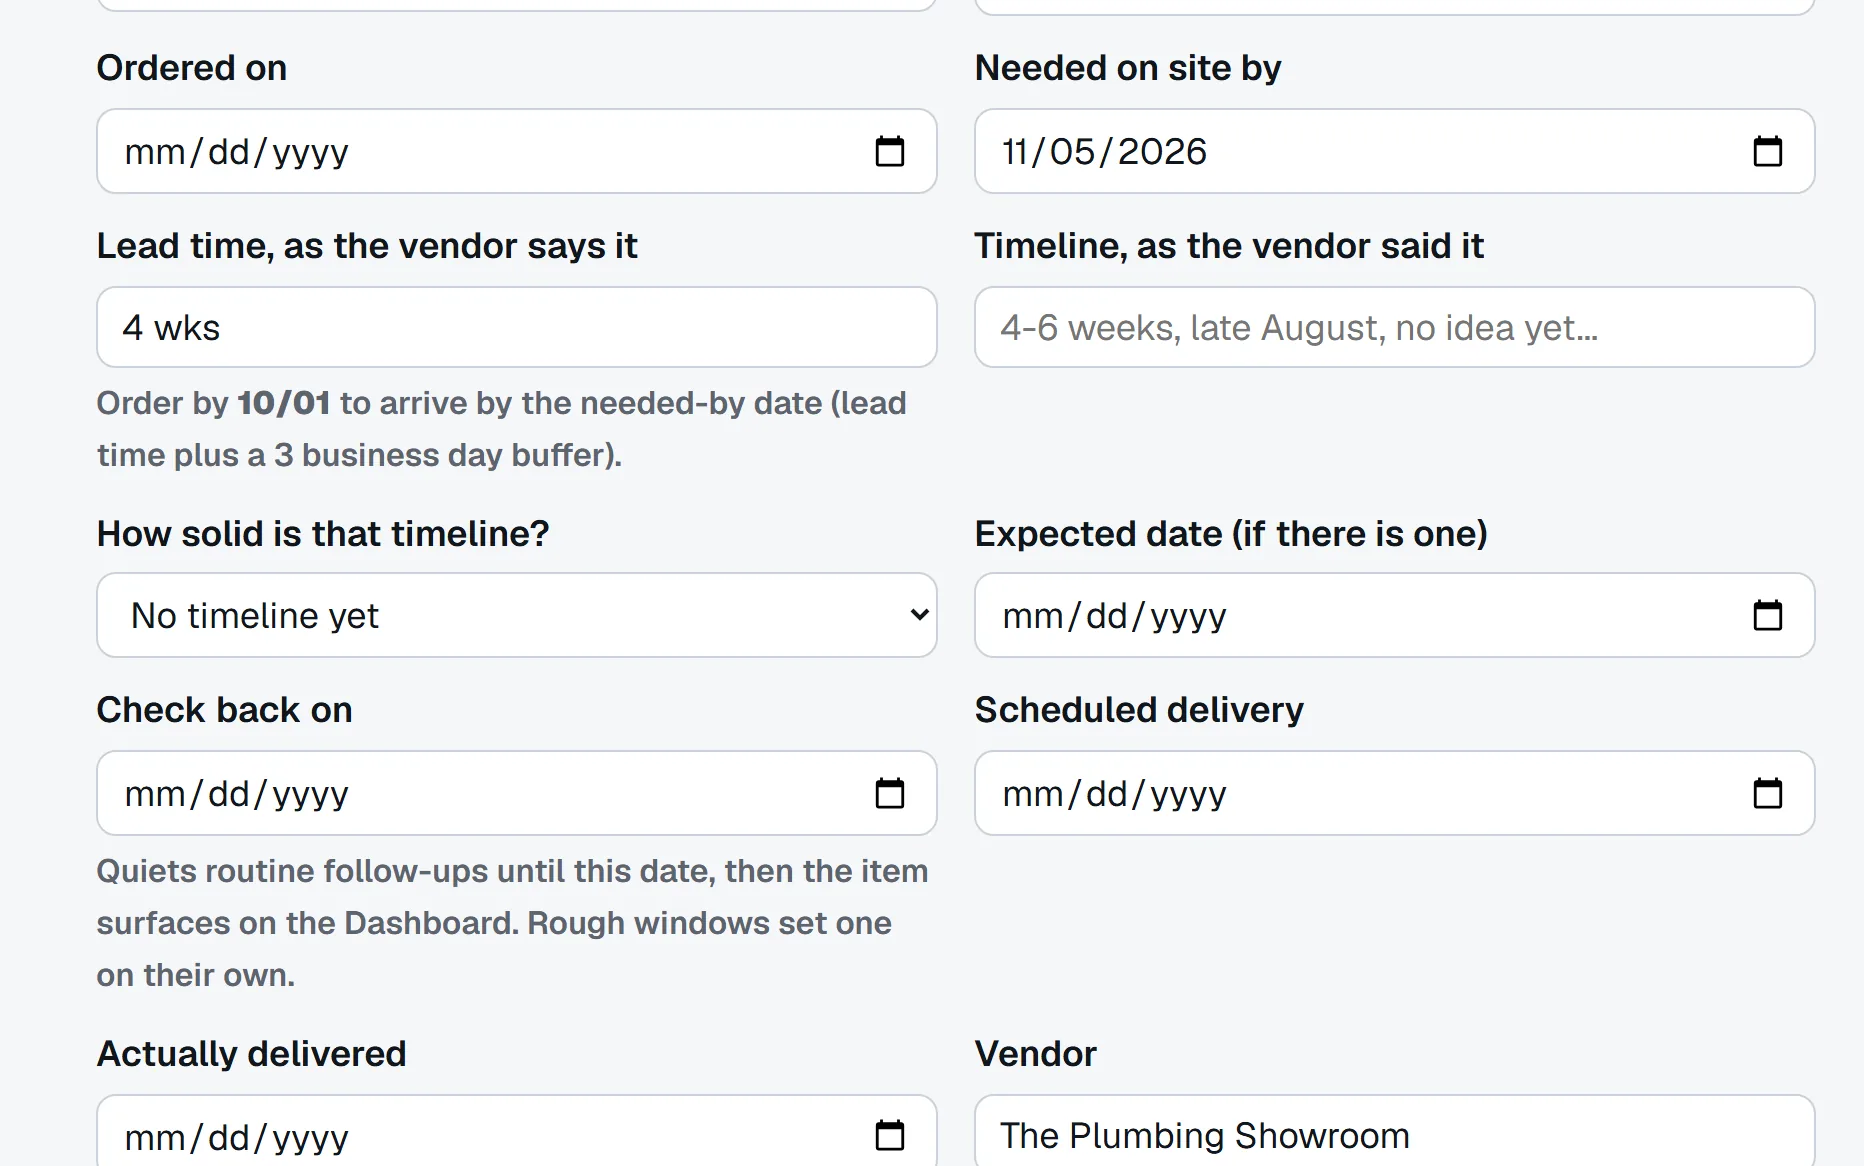
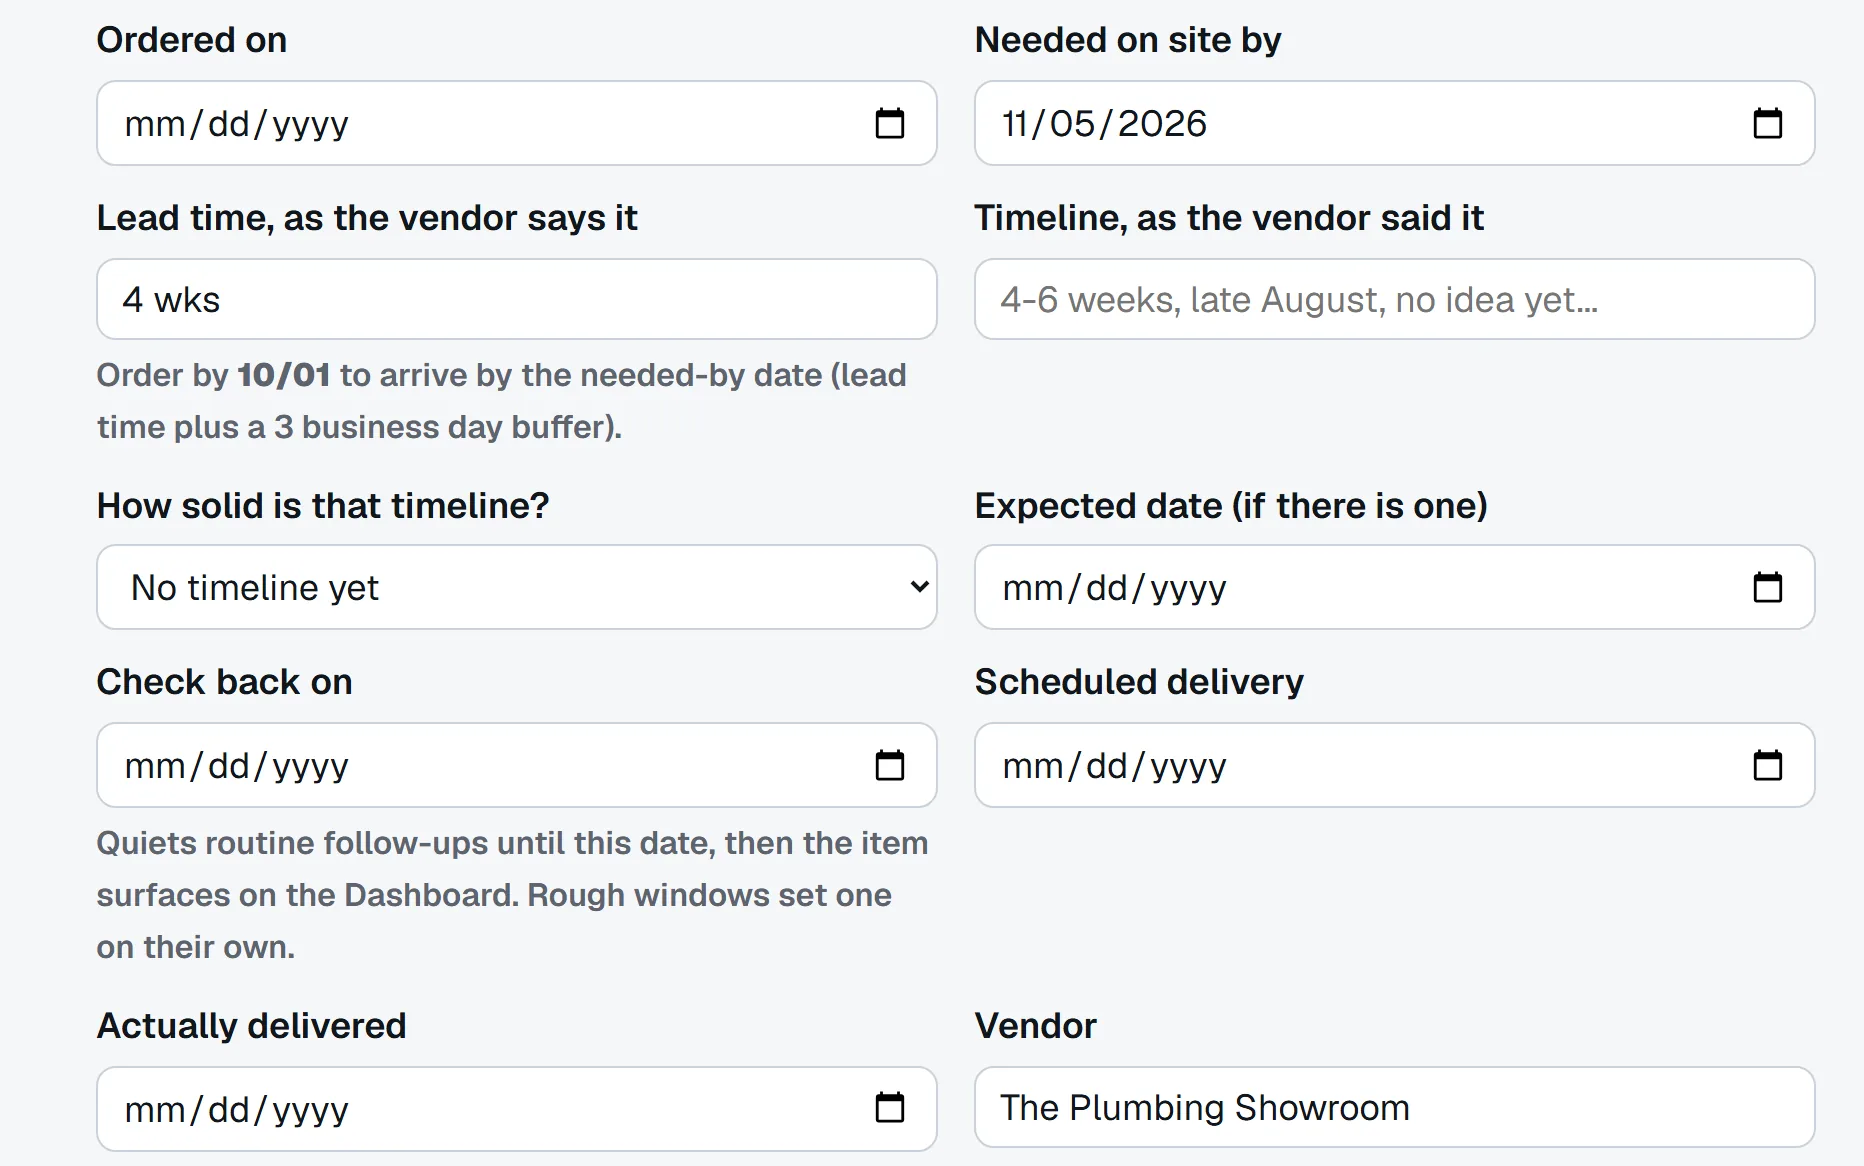
Material Monitor page: tour step 3 crop starts on its own row

diff --git a/materialmonitor.html b/materialmonitor.html
@@ -860,16 +860,16 @@ body.mm .bp-grid {
 <!-- FOR NOW this figure is cropped to the order-by line and the lead time fields only (pins 1 and 3 are outside it and hidden).
      Re-crop it in scripts/mm_site_images.py when the re-shot material page arrives (site-shots-2, vendor, rep and history in a right-hand column). -->
 <!-- MM-FIG tour-3 START. Generated by scripts/mm_site_images.py from site-shots.
-     wide: console/full/material.png, x 84 to 1016, y 636 to 1219 (932 x 583)
+     wide: console/full/material.png, x 84 to 1016, y 650 to 1233 (932 x 583)
        pin 1  vendor_and_rep (left): outside this crop, hidden
-       pin 2  order_by_date (left) box 48,189 421x52 -> left 5.150% top 36.835%, pushed -18px 0px
+       pin 2  order_by_date (left) box 48,175 421x52 -> left 5.150% top 34.434%, pushed -18px 0px
        pin 3  history_list (left): outside this crop, hidden
      narrow: console/full/material.png, x 84 to 566, y 733 to 967 (482 x 234)
        pin 1  vendor_and_rep (left): outside this crop, hidden
        pin 2  order_by_date (left) box 48,92 421x52 -> left 9.959% top 50.321%, pushed -18px 0px
        pin 3  history_list (left): outside this crop, hidden
      To move a pin or a crop, change it in the script and run it again; do not edit the numbers here. -->
-<div class="shot miss-1 miss-3 two nmiss-1 nmiss-3" style="--x2:5.150%;--y2:36.835%;--dx2:-18px;--dy2:0px;--nx2:9.959%;--ny2:50.321%;--ndx2:-18px;--ndy2:0px">
+<div class="shot miss-1 miss-3 two nmiss-1 nmiss-3" style="--x2:5.150%;--y2:34.434%;--dx2:-18px;--dy2:0px;--nx2:9.959%;--ny2:50.321%;--ndx2:-18px;--ndy2:0px">
 <div class="pic"><picture><source media="(max-width: 699px)" srcset="assets/screens/materialmonitor/mm-tour-material-n-560.webp 560w, assets/screens/materialmonitor/mm-tour-material-n-964.webp 964w" sizes="100vw" width="560" height="272"><img class="shot-img" src="assets/screens/materialmonitor/mm-tour-material-980.webp" srcset="assets/screens/materialmonitor/mm-tour-material-980.webp 980w, assets/screens/materialmonitor/mm-tour-material-1864.webp 1864w" sizes="(min-width: 1320px) calc(50vw + 256px), (min-width: 1100px) calc(100vw - 404px), (min-width: 700px) min(960px, calc(100vw - 48px)), 100vw" width="980" height="613" loading="lazy" decoding="async" alt="A material's page with sample data: the date it is needed on site, the vendor's lead time and the date to order by so it arrives in time. A sample company."></picture>
 <!-- MM-FIG tour-3 END -->
                   <span class="pin p1" aria-hidden="true">1</span>

diff --git a/scripts/mm_site_images.py b/scripts/mm_site_images.py
@@ -193,7 +193,7 @@ FIGURES = [
                 "and the date to order by so it arrives in time. A sample company."),
         "pins": [("vendor_and_rep", "left"), ("order_by_date", "left"), ("history_list", "left")],
         "crops": {
-            "wide": {"x0": 84, "x1": 1016, "y0": ("needed_on_site_by", "top", -20), "aspect": TOUR_ASPECT,
+            "wide": {"x0": 84, "x1": 1016, "y0": ("needed_on_site_by", "top", -6), "aspect": TOUR_ASPECT,
                      "display": TOUR_DISPLAY, "widths": [980, 1960], "sizes": TOUR_SIZES},
             "narrow": {"x0": 84, "x1": 566, "y0": ("lead_time", "top", -12),
                        "y1": ("order_by_date", "bottom", 90), "display": 390, "widths": [560, 1120]},
